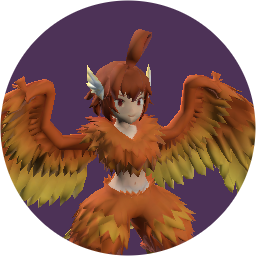
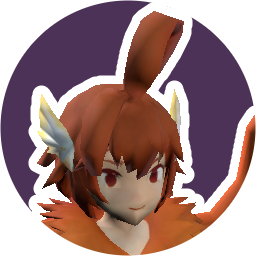
feat: 魔物のアイコンを顔のアップにし、白いふちを付ける
- 頭の骨に付いた頂点の中央を中心に、85% の頂点が入る大きさまで寄せる（翼に重みがにじむドラゴンや、長い毛・角があるモデルでも顔が真ん中に来る）
- 頭の骨がないモデル（スコーピオン）は体全体を写す
- 魔物の形の外側に白いふちを描いてから紫の丸に重ねる

diff --git a/Assets/_Project/Scripts/Editor/MonsterIconGenerator.cs b/Assets/_Project/Scripts/Editor/MonsterIconGenerator.cs
@@ -11,7 +11,7 @@ namespace Game.Editor
 {
     /// 魔王ロビーで使う魔物・中ボスの丸いアイコンを、3D モデル（modelPath）から描き出す。
     /// Art/Characters/MonsterIcons/<アセット名>_Icon.png に書き、MonsterData.icon / BossData.icon に入れる。
-    /// 立っている魔物（背が高い）は頭と上半身、横に長い魔物（ドラゴン・スコーピオンなど）は体全体を写す。
+    /// 顔のアップ: 頭の骨（FaceBones）に付いた頂点に寄せる（頭の骨がなければ体全体）。魔物の形のまわりに白いふちを付ける。
     /// 描画の手順は ClassPortraitGenerator（勇者の顔アイコン）と同じ。絵を描き直したら icon を差し替えればよい。
     public static class MonsterIconGenerator
     {
@@ -19,25 +19,17 @@ namespace Game.Editor
         private const string BossDir = "Assets/_Project/ScriptableObjects/Bosses";
         private const string OutDir = "Assets/_Project/Art/Characters/MonsterIcons";
         private const int IconSize = 256;
-        private const float BustFraction = 0.62f; // 立っている魔物で写す、上からの高さの割合
-        private const float UprightRatio = 0.8f; // 高さ ÷ 横の広がり がこれ以上なら「立っている」
+        private const float FacePadding = 1.3f; // 顔のまわりの余白（大きいほど引く）
+        private const float FacePercentile = 0.85f; // 顔の頂点のうち、絵に収める割合（はみ出した角や毛、重みのにじみは切る）
+        private const float OutlinePixels = 9f; // 白いふちの太さ（256px の絵で）
         private static readonly Color Backdrop = new Color(0.55f, 0.36f, 0.62f); // 魔王ロビーのフェルトに合う紫
-        private static readonly Vector3 ViewDirection = new Vector3(0.45f, 0.2f, 1f);
+        private static readonly Vector3 ViewDirection = new Vector3(0.4f, 0.15f, 1f);
 
-        private enum Framing
+        /// 顔として写す骨。上から順に探し、最初に見つかったものを使う。
+        /// 頭の骨がないモデル（スコーピオン）は体全体を写す。
+        private static readonly string[][] FaceBones =
         {
-            Bust, // 頭と上半身（横に広がる翼や腕は切れてよい）
-            Body, // 体全体の高さに合わせ、横にはみ出す翼や尾は切れてよい
-            Whole, // 体全体（横に長い魔物）
-        }
-
-        /// アセット名ごとの写し方。ない魔物は高さと横の広がりの比で決める（UprightRatio）。
-        private static readonly Dictionary<string, Framing> Framings = new Dictionary<string, Framing>
-        {
-            { "BasicMob", Framing.Bust }, { "Dryad", Framing.Bust }, { "Harpy", Framing.Bust },
-            { "Mummy", Framing.Bust }, { "Ifrit", Framing.Bust },
-            { "Cockatrice", Framing.Body }, { "Wendigo", Framing.Body },
-            { "Golem", Framing.Whole }, { "Dragon", Framing.Whole }, { "Scorpion", Framing.Whole },
+            new[] { "Head" },
         };
 
         [MenuItem("Tools/Characters/Generate Monster Icons")]
@@ -110,24 +102,19 @@ namespace Game.Editor
                     poseClip.SampleAnimation(model, poseClip.length * 0.3f);
                     if (boneFit != null) boneFit.Apply();
                 }
-                var points = ClassPortraitGenerator.CollectPoints(model);
-                if (points.Count == 0) { Debug.LogWarning($"[MonsterIcon] no renderers on {modelPath}"); return null; }
 
-                Vector3 min = points[0], max = points[0];
-                foreach (var p in points) { min = Vector3.Min(min, p); max = Vector3.Max(max, p); }
-                float height = max.y - min.y;
-                float spread = Mathf.Max(max.x - min.x, max.z - min.z);
-                if (!Framings.TryGetValue(assetName, out var framing))
-                    framing = height >= spread * UprightRatio ? Framing.Bust : Framing.Whole;
-                if (framing == Framing.Bust)
+                var face = FacePoints(model);
+                if (face.Count > 0) FrameFace(cam, face);
+                else
                 {
-                    float cutY = max.y - height * BustFraction;
-                    ClassPortraitGenerator.Fit(cam, points.FindAll(p => p.y >= cutY), IconSize, IconSize, 1.05f, false, ViewDirection);
+                    var points = ClassPortraitGenerator.CollectPoints(model);
+                    if (points.Count == 0) { Debug.LogWarning($"[MonsterIcon] no renderers on {modelPath}"); return null; }
+                    ClassPortraitGenerator.Fit(cam, points, IconSize, IconSize, 1.05f, true, ViewDirection);
                 }
-                else ClassPortraitGenerator.Fit(cam, points, IconSize, IconSize, framing == Framing.Body ? 1.0f : 1.02f, framing == Framing.Whole, ViewDirection);
 
                 var shot = ClassPortraitGenerator.RenderWithAlpha(cam, IconSize, IconSize);
-                var icon = ClassPortraitGenerator.CircleIcon(shot, Backdrop, false);
+                var outlined = Outline(shot, OutlinePixels, Color.white);
+                var icon = ClassPortraitGenerator.CircleIcon(outlined, Backdrop, false);
                 string path = $"{OutDir}/{assetName}_Icon.png";
                 ClassPortraitGenerator.Save(icon, path);
                 return ClassPortraitGenerator.ImportSprite(path);
@@ -136,6 +123,110 @@ namespace Game.Editor
             {
                 Object.DestroyImmediate(model);
             }
+        }
+
+        /// 顔の骨（FaceBones）に主に付いている頂点の位置（姿勢をとった後）。CollectPoints と同じ座標の求め方。
+        private static List<Vector3> FacePoints(GameObject model)
+        {
+            var points = new List<Vector3>();
+            var renderers = model.GetComponentsInChildren<SkinnedMeshRenderer>(true);
+            foreach (var names in FaceBones)
+            {
+                foreach (var smr in renderers)
+                {
+                    if (smr.sharedMesh == null) continue;
+                    var bones = smr.bones;
+                    var face = new bool[bones.Length];
+                    bool any = false;
+                    for (int i = 0; i < bones.Length; i++)
+                        if (bones[i] != null && System.Array.IndexOf(names, bones[i].name) >= 0) face[i] = any = true;
+                    if (!any) continue;
+
+                    var weights = smr.sharedMesh.boneWeights;
+                    var mesh = new Mesh();
+                    smr.BakeMesh(mesh);
+                    var m = Matrix4x4.TRS(smr.transform.position, smr.transform.rotation, Vector3.one);
+                    var vertices = mesh.vertices;
+                    for (int v = 0; v < vertices.Length && v < weights.Length; v++)
+                    {
+                        var w = weights[v];
+                        float share = (face[w.boneIndex0] ? w.weight0 : 0f) + (face[w.boneIndex1] ? w.weight1 : 0f)
+                                      + (face[w.boneIndex2] ? w.weight2 : 0f) + (face[w.boneIndex3] ? w.weight3 : 0f);
+                        if (share >= 0.5f) points.Add(m.MultiplyPoint3x4(vertices[v]));
+                    }
+                    Object.DestroyImmediate(mesh);
+                }
+                if (points.Count > 0) return points;
+            }
+            return points;
+        }
+
+        /// 顔の頂点の真ん中（軸ごとの中央値）を中心に、FacePercentile の頂点が入る半径で寄せる。
+        /// 端の頂点で決めないのは、翼などに頭の骨の重みが少しにじんでいるモデル（ドラゴン）や、長い毛・角があるモデルのため。
+        private static void FrameFace(Camera cam, List<Vector3> points)
+        {
+            var xs = new List<float>(points.Count);
+            var ys = new List<float>(points.Count);
+            var zs = new List<float>(points.Count);
+            foreach (var p in points) { xs.Add(p.x); ys.Add(p.y); zs.Add(p.z); }
+            xs.Sort(); ys.Sort(); zs.Sort();
+            int mid = points.Count / 2;
+            var center = new Vector3(xs[mid], ys[mid], zs[mid]);
+
+            var dists = new List<float>(points.Count);
+            foreach (var p in points) dists.Add(Vector3.Distance(p, center));
+            dists.Sort();
+            float radius = Mathf.Max(0.01f, dists[Mathf.Min(dists.Count - 1, Mathf.FloorToInt(dists.Count * FacePercentile))]);
+
+            var dir = ViewDirection.normalized;
+            float distance = radius * FacePadding / Mathf.Tan(cam.fieldOfView * 0.5f * Mathf.Deg2Rad);
+            cam.transform.SetPositionAndRotation(center + dir * distance, Quaternion.LookRotation(-dir, Vector3.up));
+        }
+
+        /// 絵の形（アルファ）のまわりに色のふちを付ける。ふちは形の後ろに敷く。
+        private static Texture2D Outline(Texture2D src, float width, Color color)
+        {
+            int w = src.width, h = src.height;
+            var px = src.GetPixels();
+            var alpha = new float[px.Length];
+            for (int i = 0; i < px.Length; i++) alpha[i] = px[i].a;
+
+            int r = Mathf.CeilToInt(width);
+            var offsets = new List<Vector3Int>(); // x, y と、ふちの強さを 1000 倍した値
+            for (int dy = -r; dy <= r; dy++)
+            for (int dx = -r; dx <= r; dx++)
+            {
+                float k = Mathf.Clamp01(width + 0.5f - Mathf.Sqrt(dx * dx + dy * dy));
+                if (k > 0f) offsets.Add(new Vector3Int(dx, dy, Mathf.RoundToInt(k * 1000f)));
+            }
+
+            var outPx = new Color[px.Length];
+            for (int y = 0; y < h; y++)
+            for (int x = 0; x < w; x++)
+            {
+                int i = y * w + x;
+                float rim = 0f;
+                foreach (var o in offsets)
+                {
+                    int sx = x + o.x, sy = y + o.y;
+                    if (sx < 0 || sy < 0 || sx >= w || sy >= h) continue;
+                    rim = Mathf.Max(rim, alpha[sy * w + sx] * o.z * 0.001f);
+                    if (rim >= 1f) break;
+                }
+                var c = px[i];
+                var back = new Color(color.r, color.g, color.b, rim);
+                // c を back の上に重ねる（どちらもまっすぐなアルファ）。
+                float a = c.a + back.a * (1f - c.a);
+                outPx[i] = a > 0.0001f
+                    ? new Color((c.r * c.a + back.r * back.a * (1f - c.a)) / a, (c.g * c.a + back.g * back.a * (1f - c.a)) / a,
+                        (c.b * c.a + back.b * back.a * (1f - c.a)) / a, a)
+                    : Color.clear;
+            }
+            Object.DestroyImmediate(src);
+            var tex = new Texture2D(w, h, TextureFormat.RGBA32, false);
+            tex.SetPixels(outPx);
+            tex.Apply();
+            return tex;
         }
     }
 }
